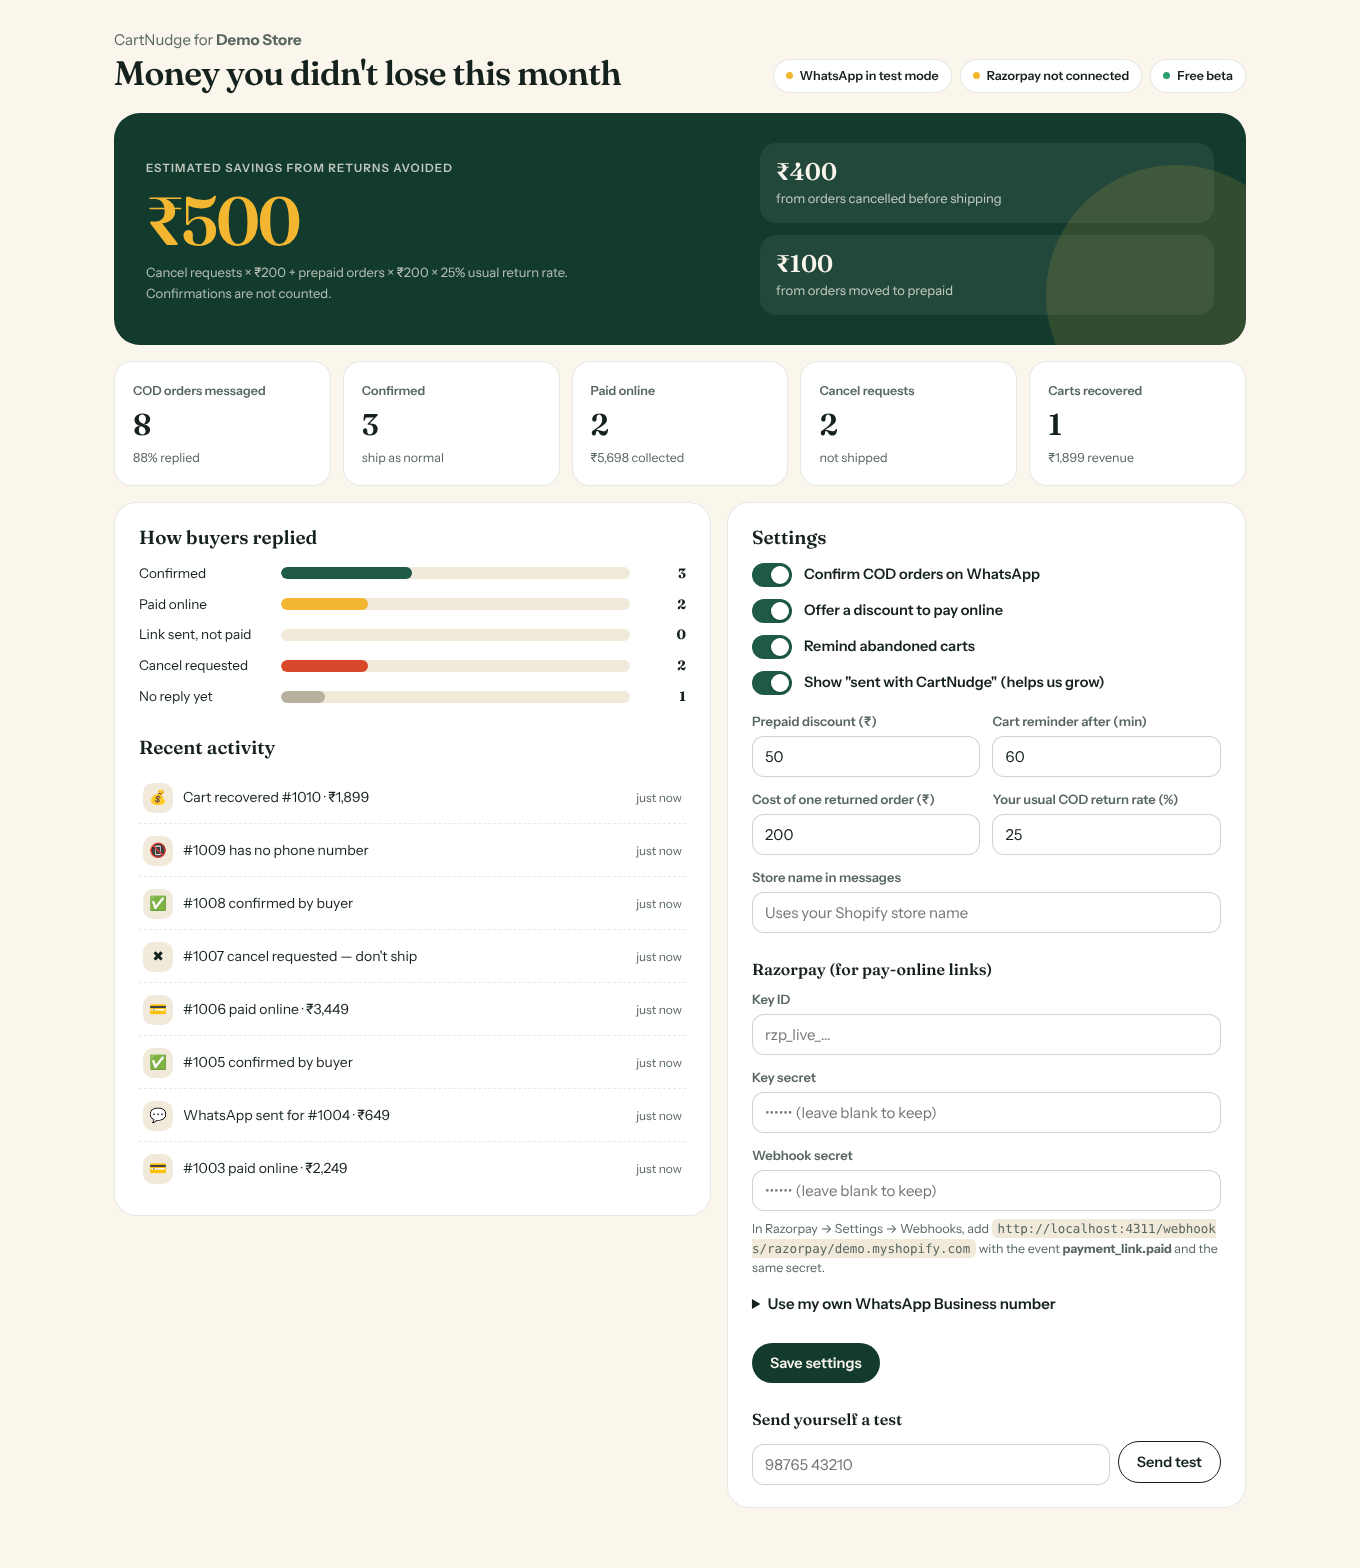
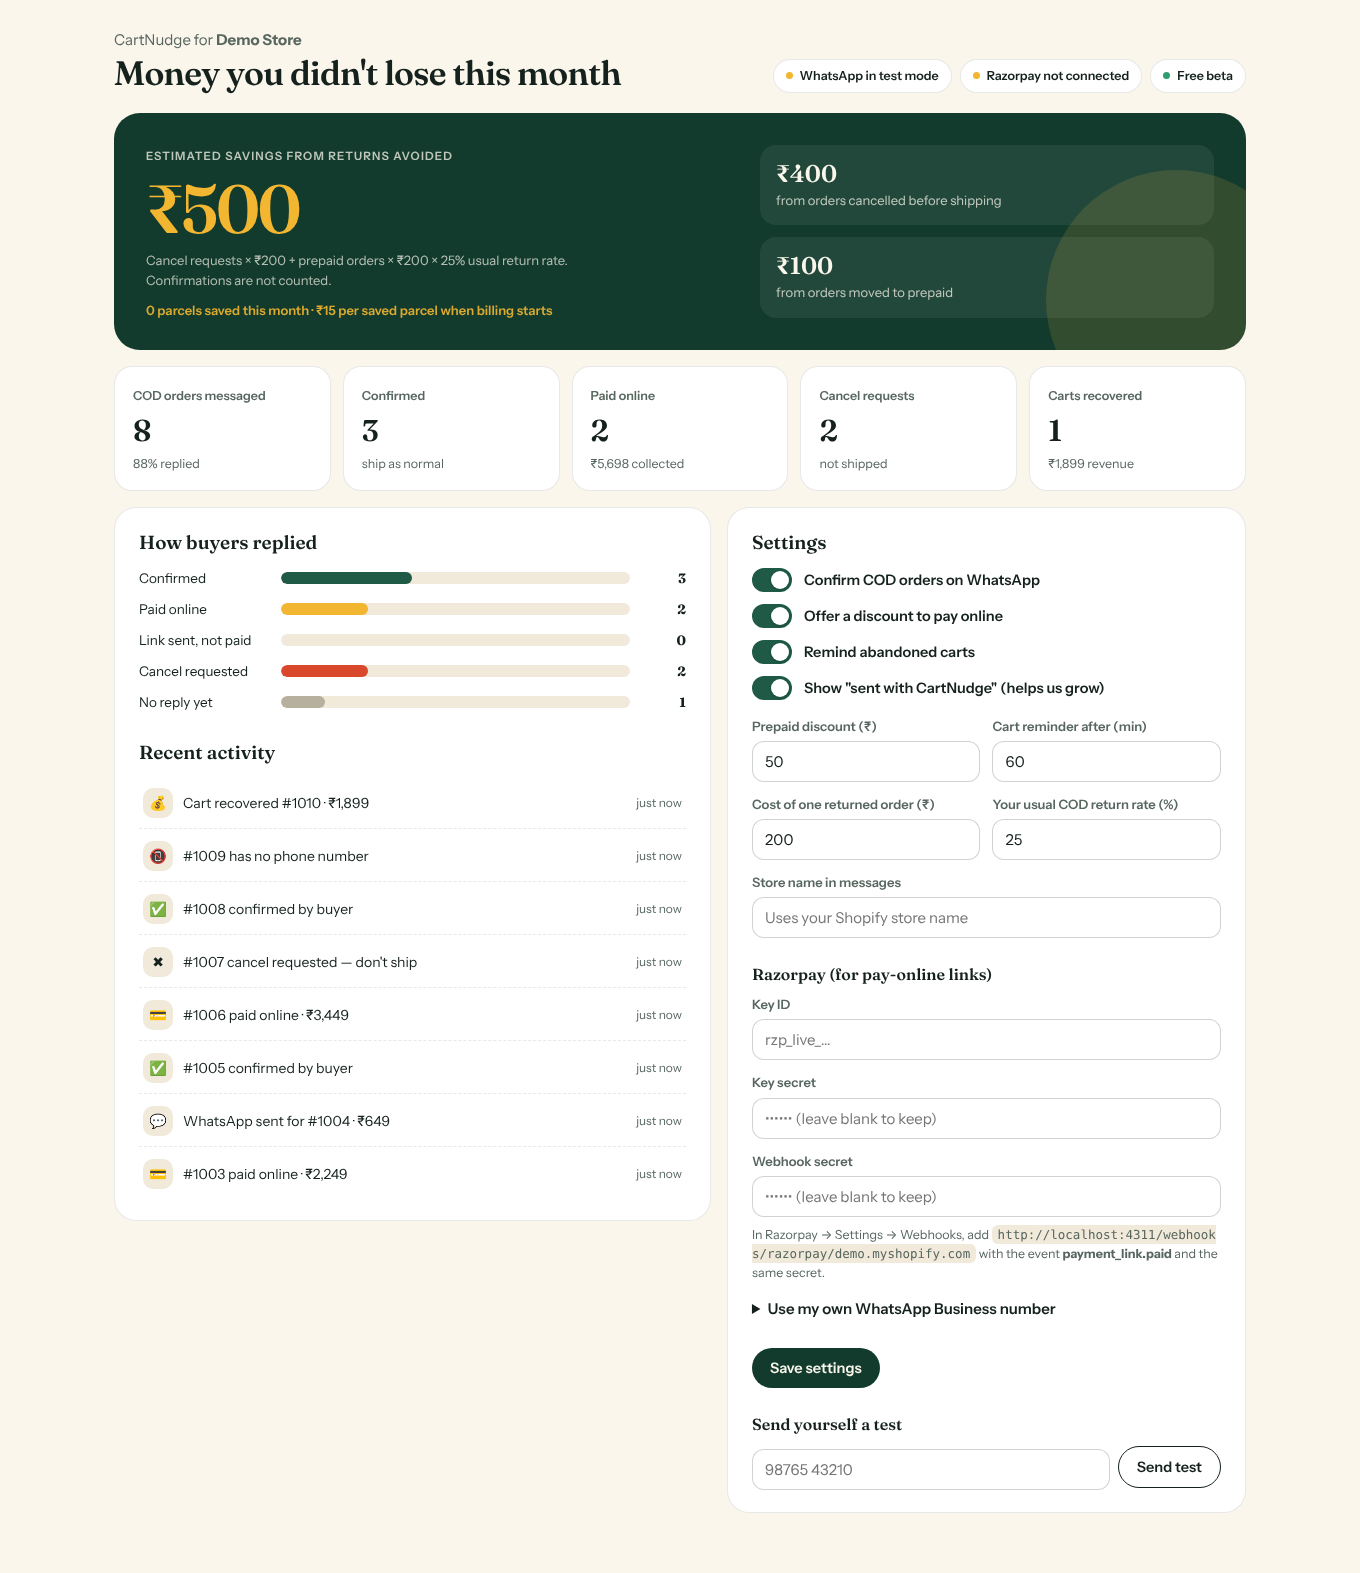
Switch to pay-per-save pricing with Shopify usage billing

diff --git a/public/index.html b/public/index.html
@@ -39,7 +39,7 @@
           <input id="shop1" name="shop" placeholder="your-store.myshopify.com" required pattern="[a-zA-Z0-9][a-zA-Z0-9\-]*\.myshopify\.com" autocomplete="off">
           <button class="btn btn-gold" type="submit">Install on Shopify →</button>
         </form>
-        <p class="fine">Free for early stores · 10-minute setup · Works with your Razorpay account</p>
+        <p class="fine">Pay only for parcels we save · 10-minute setup · Works with your Razorpay account</p>
       </div>
 
       <div class="phone" aria-label="Example WhatsApp conversation">
@@ -106,7 +106,7 @@
           <div class="row"><span>Returned orders today</span><b id="today">0</b></div>
           <div class="row"><span>Caught before shipping (cancel taps)</span><b id="caught">0</b></div>
           <div class="row"><span>Moved to prepaid</span><b id="prepaid">0</b></div>
-          <div class="row"><span>CartNudge cost</span><b>₹999</b></div>
+          <div class="row"><span>CartNudge cost (₹15 per saved parcel)</span><b id="fee">₹0</b></div>
         </div>
       </div>
       <p class="source">Assumes 10% of orders that would have come back get cancelled on WhatsApp before shipping, and 15% of COD buyers switch to prepaid. Your dashboard shows your real numbers.</p>
@@ -116,27 +116,30 @@
   <section id="pricing">
     <div class="wrap">
       <span class="kicker">Pricing</span>
-      <h2 class="reveal">One plan. Pays for itself with five saved parcels.</h2>
+      <h2 class="reveal">Pay only for parcels we save you.</h2>
+      <p class="sub reveal">No monthly fee. No setup fee. If CartNudge doesn't save a parcel, you pay nothing.</p>
       <div class="price-grid">
         <div class="plan reveal">
-          <span class="tag">Growth</span>
-          <div class="cost">₹999<span> / month</span></div>
+          <span class="tag">Pay-per-save</span>
+          <div class="cost">₹15<span> per saved parcel</span></div>
+          <p class="fine" style="margin-top:10px">A saved parcel is a COD order the buyer cancelled before you shipped it, or one they paid for online. Confirmed COD orders are free.</p>
           <ul>
             <li>WhatsApp confirmation for every COD order</li>
             <li>Prepaid nudge with your own Razorpay links</li>
             <li>Abandoned cart reminders with click tracking</li>
             <li>Automatic Shopify order tags and notes</li>
             <li>Live savings dashboard inside Shopify admin</li>
+            <li>Capped at ₹2,999 a month, however much we save</li>
           </ul>
-          <a class="btn btn-ink" href="#install">Start 7-day free trial</a>
-          <p class="fine">Billed through Shopify (about $12). Cancel any time. WhatsApp conversation charges from Meta are separate.</p>
+          <a class="btn btn-ink" href="#install">Install free</a>
+          <p class="fine">Billed through Shopify (about US$0.16 per saved parcel, capped at US$32 a month). WhatsApp message charges from Meta are included.</p>
         </div>
         <div class="beta reveal">
           <div>
-            <h3>Early store? It's free while we're in beta.</h3>
-            <p>We're onboarding our first stores by hand. We'll set it up with you and you pay nothing until it has saved you money.</p>
+            <h3>The founder sets it up with you, the same day.</h3>
+            <p>Tell us your store and we'll install it, write your messages and test it with you on WhatsApp. Early stores pay nothing during the beta.</p>
           </div>
-          <a class="btn btn-ink" href="mailto:upparikarthik505@gmail.com?subject=CartNudge%20beta">Talk to the founder →</a>
+          <a class="btn btn-ink" href="mailto:cartnudge.app@gmail.com?subject=CartNudge%20setup">Book a setup →</a>
         </div>
       </div>
     </div>
@@ -169,7 +172,7 @@
     </div>
     <div class="foot">
       <span>© 2026 CartNudge · Made in Hyderabad</span>
-      <nav><a href="#faq">Privacy</a><a href="mailto:upparikarthik505@gmail.com">Contact</a></nav>
+      <nav><a href="#faq">Privacy</a><a href="mailto:cartnudge.app@gmail.com">Contact</a></nav>
     </div>
   </div>
 </footer>
@@ -188,7 +191,9 @@
     const returned = orders * rto;
     const caughtOrders = Math.round(returned * 0.10);
     const prepaidOrders = Math.round(orders * 0.15);
-    const saved = caughtOrders * cost + prepaidOrders * cost * rto - 999;
+    const fee = Math.min((caughtOrders + prepaidOrders) * 15, 2999);
+    const saved = caughtOrders * cost + prepaidOrders * cost * rto - fee;
+    $('fee').textContent = inr(fee);
     $('ordersOut').textContent = orders.toLocaleString('en-IN');
     $('rtoOut').textContent = Math.round(rto * 100) + '%';
     $('costOut').textContent = inr(cost);

diff --git a/public/app.js b/public/app.js
@@ -56,6 +56,10 @@ function render(data) {
   $('paidOnline').textContent = stats.cod.paidOnline;
   $('prepaidValue').textContent = `${inr(stats.cod.prepaidValue)} collected`;
   $('cancelRequested').textContent = stats.cod.cancelRequested;
+  const b = stats.billing;
+  $('billLine').textContent = b.chargedInr
+    ? `${b.parcelsSavedThisMonth} parcels saved this month · billed ${inr(b.chargedInr)} (₹${b.parcelPriceInr} each, capped at ${inr(b.monthlyCapInr)})`
+    : `${b.parcelsSavedThisMonth} parcels saved this month · ${b.waivedInr ? `${inr(b.waivedInr)} not charged (free beta)` : `₹${b.parcelPriceInr} per saved parcel when billing starts`}`;
   $('cartsRecovered').textContent = stats.carts.recovered;
   $('cartValue').textContent = `${inr(stats.carts.recoveredValue)} revenue`;
 
@@ -103,8 +107,8 @@ function render(data) {
   const banner = $('banner');
   if (data.billingRequired && data.subscription?.status !== 'ACTIVE') {
     banner.hidden = false;
-    banner.innerHTML = '<span></span><button class="btn gold" type="button">Start free trial</button>';
-    banner.firstChild.textContent = `Messages are paused. Start your ${data.plan.trialDays}-day free trial of ${data.plan.name} ($${data.plan.priceUsd}/month, billed by Shopify).`;
+    banner.innerHTML = '<span></span><button class="btn gold" type="button">Turn on pay-per-save</button>';
+    banner.firstChild.textContent = `Messages are paused. Turn on ${data.plan.name}: ₹${data.plan.parcelPriceInr} per saved parcel, no monthly fee, capped at ₹${data.plan.monthlyCapInr.toLocaleString('en-IN')} a month (billed by Shopify).`;
     banner.querySelector('button').onclick = subscribe;
   } else banner.hidden = true;
 

diff --git a/public/app.html b/public/app.html
@@ -29,6 +29,7 @@
         <small>Estimated savings from returns avoided</small>
         <div class="saved" id="saved">₹0</div>
         <p class="formula" id="formula"></p>
+        <p class="formula bill" id="billLine"></p>
       </div>
       <div class="split">
         <div><b id="fromCancels">₹0</b><span>from orders cancelled before shipping</span></div>

diff --git a/public/app.css b/public/app.css
@@ -80,3 +80,5 @@ details { margin: 14px 0 4px; } summary { cursor: pointer; font-weight: 600; mar
   .kpis { grid-template-columns: repeat(2, 1fr); }
   .cols, .hero-card { grid-template-columns: 1fr; }
 }
+
+.formula.bill { margin-top: 10px; opacity: .9; color: var(--marigold); font-weight: 600; }

diff --git a/README.md b/README.md
@@ -16,6 +16,12 @@ The embedded dashboard in Shopify admin shows estimated savings, how buyers repl
 
 ![Dashboard](docs/dashboard.png)
 
+## Pricing: pay-per-save
+
+The store pays **₹15 (US$0.16) for each parcel CartNudge saves**: a COD order the buyer cancelled before shipping, or one moved to prepaid. Confirmed COD orders are free. There is no monthly fee, and charges are capped at ₹2,999 (US$32) per 30 days.
+
+It runs on Shopify usage billing: a usage-only `appSubscriptionCreate` with a capped amount, plus one `appUsageRecordCreate` per saved parcel. The idempotency key is the order, so a parcel is never charged twice. While `BILLING_REQUIRED=false` (beta), saved parcels are counted on the dashboard but not charged.
+
 ## How the savings number is calculated
 
 It's deliberately conservative:
@@ -63,7 +69,7 @@ DEV_SHOP=demo.myshopify.com npm run dev
 Open http://localhost:3000 for the landing page and http://localhost:3000/app for the dashboard with demo data.
 
 ```bash
-npm test                      # 28 tests
+npm test                      # 30 tests
 ```
 
 ## Go live: step by step
@@ -82,7 +88,7 @@ npm test                      # 28 tests
 4. **Install on a development store:** `https://YOUR_URL/auth?shop=your-dev-store.myshopify.com`.
 5. **Connect Razorpay** in the dashboard settings (Key ID, Key secret, Webhook secret). Then add the shown webhook URL in Razorpay with the event `payment_link.paid`.
 6. **Test it.** Place a COD test order with your own number and tap each button.
-7. **Turn on billing** when you're ready: `BILLING_REQUIRED=true` and `BILLING_LIVE=true`.
+7. **Turn on billing** when you're ready: `BILLING_REQUIRED=true` and `BILLING_LIVE=true`. Each store approves the pay-per-save plan once from the dashboard.
 
 ## Limits to know
 
